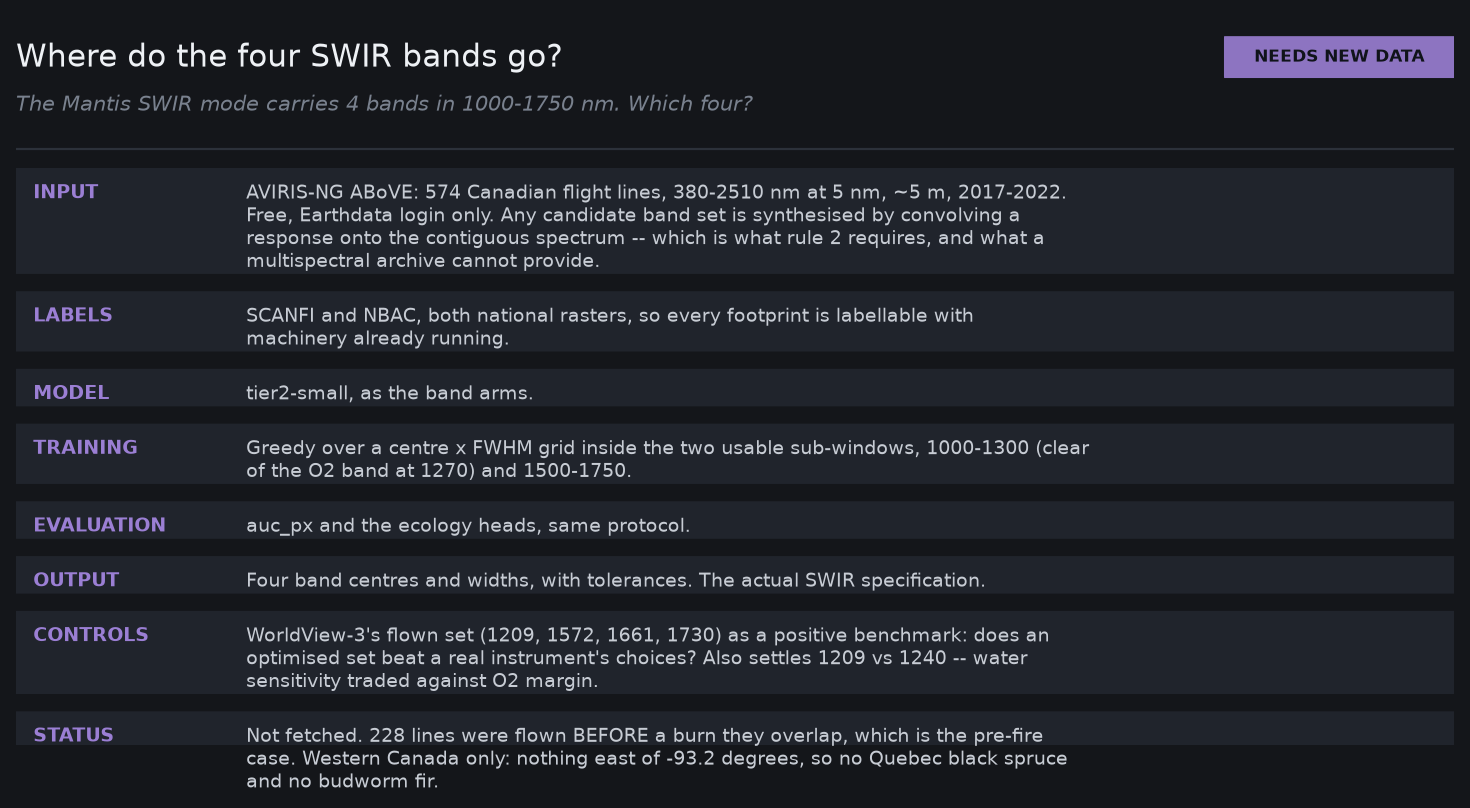
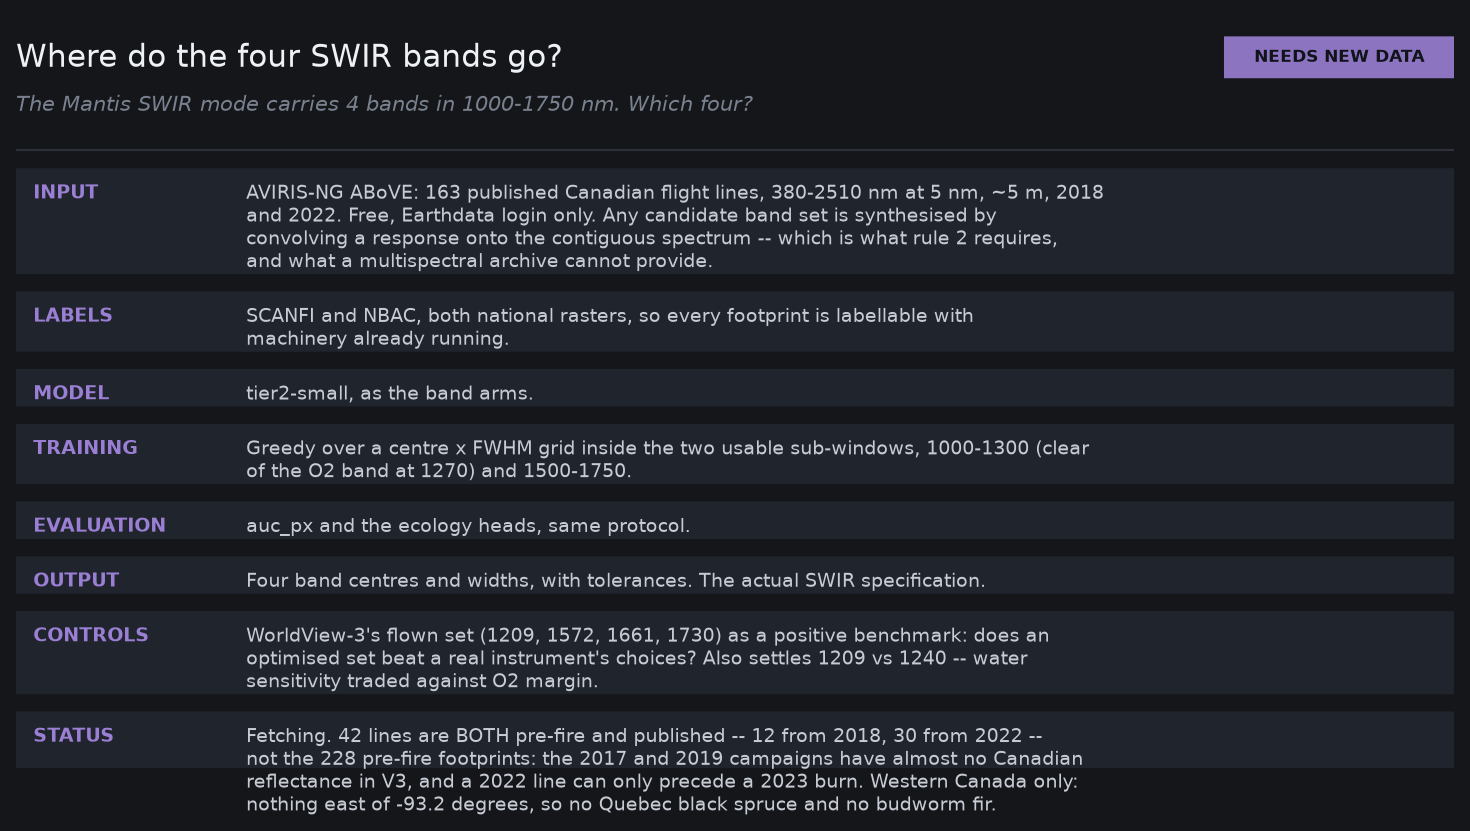
Correct the AVIRIS count: 42 usable pre-fire lines, not 228
The data inventory, the experiment plan and the SWIR card all claimed 574
Canadian lines with 228 pre-fire. Measured against ORNL DAAC's own file
listing today, 163 of the 574 footprints have a reflectance product and 42
are both pre-fire and published.

The boundary shapefiles record where the aircraft flew, not what was
published, and the shortfall is structural: 2017 has NO Canadian
reflectance in V3 (0 of 244) and 2019 has 1 of 165, its products being
almost entirely Alaska. The pre-fire condition then fights the published
years, because a 2022 line can only precede a 2023 burn.

42 lines is still ample for what it is asked to do -- the unit that matters
for placing four band centres is labelled spectra, and 42 scenes at ~5 m is
tens of millions of contiguous 380-2510 nm pixels, all labellable by SCANFI
and NBAC. What it costs is LEAD TIME: 35 of the 42 precede a 2023 burn
only, so the pool mostly supports a one-season design rather than a
multi-year curve. That is Q25, and it has a cheap fix that needs no new
imagery -- every NBAC year published past 2023 converts more of the 143
published 2022 lines into pre-fire ones.

Recorded as A-21 with the per-year table, so the next person does not
rediscover it by watching three downloads 404.

diff --git a/scripts/make_experiment_cards.py b/scripts/make_experiment_cards.py
@@ -217,8 +217,8 @@ CARDS = [
   slug="08_swir_placement", tier=LATER, tier_name="NEEDS NEW DATA",
   title="Where do the four SWIR bands go?",
   question="The Mantis SWIR mode carries 4 bands in 1000-1750 nm. Which four?",
-  INPUT="AVIRIS-NG ABoVE: 574 Canadian flight lines, 380-2510 nm at 5 nm, "
-        "~5 m, 2017-2022. Free, Earthdata login only. Any candidate band set "
+  INPUT="AVIRIS-NG ABoVE: 163 published Canadian flight lines, 380-2510 nm "
+        "at 5 nm, ~5 m, 2018 and 2022. Free, Earthdata login only. Any candidate band set "
         "is synthesised by convolving a response onto the contiguous "
         "spectrum -- which is what rule 2 requires, and what a multispectral "
         "archive cannot provide.",
@@ -235,9 +235,12 @@ CARDS = [
            "benchmark: does an optimised set beat a real instrument's "
            "choices? Also settles 1209 vs 1240 -- water sensitivity traded "
            "against O2 margin.",
-  STATUS="Not fetched. 228 lines were flown BEFORE a burn they overlap, "
-         "which is the pre-fire case. Western Canada only: nothing east of "
-         "-93.2 degrees, so no Quebec black spruce and no budworm fir.",
+  STATUS="Fetching. 42 lines are BOTH pre-fire and published -- 12 from "
+         "2018, 30 from 2022 -- not the 228 pre-fire footprints: the 2017 "
+         "and 2019 campaigns have almost no Canadian reflectance in V3, and "
+         "a 2022 line can only precede a 2023 burn. Western Canada only: "
+         "nothing east of -93.2 degrees, so no Quebec black spruce and no "
+         "budworm fir.",
  ),
  dict(
   slug="09_hardware_cost", tier=LATER, tier_name="HARDWARE",

diff --git a/scripts/make_experiment_plan.py b/scripts/make_experiment_plan.py
@@ -91,7 +91,8 @@ PLAN = [
      ]),
 
     ("NEEDS NEW DATA — free, but not yet fetched", LATER,
-     "AVIRIS-NG ABoVE: 574 Canadian lines at 5 nm, 228 of them flown before a burn.",
+     "AVIRIS-NG ABoVE: 163 of 574 Canadian lines are published at 5 nm;"
+     " 42 of those precede a burn.",
      [
       ("SWIR placement",
        "any 4 bands in 1000-1750 nm",

diff --git a/scripts/make_data_summary.py b/scripts/make_data_summary.py
@@ -183,7 +183,7 @@ def main(argv=None) -> int:
 
         ("SCOPED, NOT YET HELD", None, None, None, None),
         ("AVIRIS-NG ABoVE",
-         "574 Canadian lines, 5 nm · 228 pre-fire",
+         "163 published of 574 lines, 5 nm · 42 pre-fire",
          "free", PART,
          "THE SWIR answer: any 4-band placement, synthesised"),
         ("WorldView-3",

diff --git a/docs/ASSUMPTIONS.md b/docs/ASSUMPTIONS.md
@@ -586,3 +586,51 @@ budget rather than being assumed away.
 
 Where the dichroic edge sits, and how steep it is. It bounds the MS mode's
 red end, the SWIR mode's blue end, and B9's usability at once.
+
+## A-21 — The usable AVIRIS-NG pre-fire pool is 42 lines, not 228
+
+**What we assume:** Phase 6's hyperspectral evidence rests on 42 AVIRIS-NG
+flight lines, 12 flown in 2018 and 30 in 2022, and not on the 228 figure
+quoted in earlier versions of the data inventory and experiment plan.
+
+**Why, measured against the archive on 2026-10-16:** the per-year boundary
+shapefiles describe where the aircraft flew, not what ORNL DAAC published.
+Of the 574 Canadian footprints, 163 have a reflectance (`rfl`) product in
+ABoVE_Airborne_AVIRIS_NG_V3, and the shortfall is structural, not scattered:
+
+| Year | Canadian footprints | With a reflectance product |
+|---|---|---|
+| 2017 | 244 | **0** |
+| 2018 | 21 | 19 |
+| 2019 | 165 | **1** |
+| 2022 | 144 | 143 |
+
+(The 2019 release holds 272 products, almost all of them Alaska. The 2021
+release is Iceland.)
+
+The pre-fire condition and the published years then pull against each other.
+228 of the 574 footprints precede a burn in NBAC 2019-2023, but only 42 of
+those are published, because a 2022 line can only precede a 2023 burn. The
+burn years behind the 42 are {2019: 3, 2020: 2, 2021: 2, 2022: 8, 2023: 35}.
+
+**Why this is still enough for its job:** the question is where four SWIR
+band centres go, and the unit that matters is labelled spectra, not flight
+lines. 42 scenes at ~5 m is tens of millions of pixels, each a contiguous
+380-2510 nm spectrum, every one labellable by SCANFI and NBAC. Band
+placement is limited by spectral and ecological diversity, which 42 lines
+spanning 57-68 N across two seasons supplies, not by line count.
+
+**What it does cost, and this is the real constraint:** lead time. 35 of the
+42 precede a 2023 burn only, so most of the pool supports "this stand burned
+the following year" and not a multi-year curve. And the geography is
+unchanged and still narrow — nothing east of -93.2 degrees, so no Quebec
+black spruce and no budworm fir (see Q25).
+
+**How it was found:** `--check-auth` returned HTTP 404 where a 401 was
+expected. A wrong URL announces itself as a 404 while you are braced for a
+wrong password, which is why the cheap check exists: the first selection
+drew all three of its lines from 2017 and would have failed on every one,
+after the four-minute NBAC pass, with nothing on disk to show for it.
+
+**Revisit if:** a V4 release publishes the 2017 and 2019 Canadian
+reflectance, which would take the pool from 42 to something near 228.

diff --git a/docs/OPEN_QUESTIONS.md b/docs/OPEN_QUESTIONS.md
@@ -518,6 +518,34 @@ property of the bands.
 mode, and keep Sentinel-2 for the VNIR-only question, where its ten in-range
 bands and wall-to-wall free coverage are the better instrument.
 
+### Q25 — Is a 2023-burn-only lead time enough for the SWIR evidence?
+
+**The situation.** The AVIRIS-NG pool that is both pre-fire and published is
+42 lines (A-21), and 35 of them precede a burn in 2023 alone. So the
+dominant design is "imaged in 2022, burned in 2023": a one-season lead time,
+measured once.
+
+**Why it matters.** The SWIR bands exist to sense fuel moisture and dry
+matter, both of which vary within a season. A one-year lead says whether the
+spectrum before a fire differs from the spectrum before no fire; it does not
+say how far ahead that difference is readable, which is the question a
+monitoring mission actually faces. The 2018 lines (12 of the 42, with burns
+in 2019-2023) are the only multi-year lead available, and twelve lines is
+thin for a curve.
+
+**What we would do about it, in order of cost:**
+1. Accept the one-season design and say so plainly in the Phase 6 note. The
+   band-placement answer does not need a lead-time curve.
+2. Add post-fire lines (`--all-lines`) for severity and recovery, which is a
+   different question but uses data already paid for.
+3. Extend NBAC past 2023 as perimeters are published; every new fire year
+   turns some of the 143 published 2022 Canadian lines into pre-fire ones.
+   This is the cheapest real improvement and needs no new imagery.
+
+**For James:** is a single-season lead acceptable evidence for the SWIR
+specification, or does the spec need the multi-year read that only option 3
+can eventually give?
+
 ### What to check before committing
 
 1. **Coverage and cost.** WV-3 is commercial. Archive holdings over boreal
